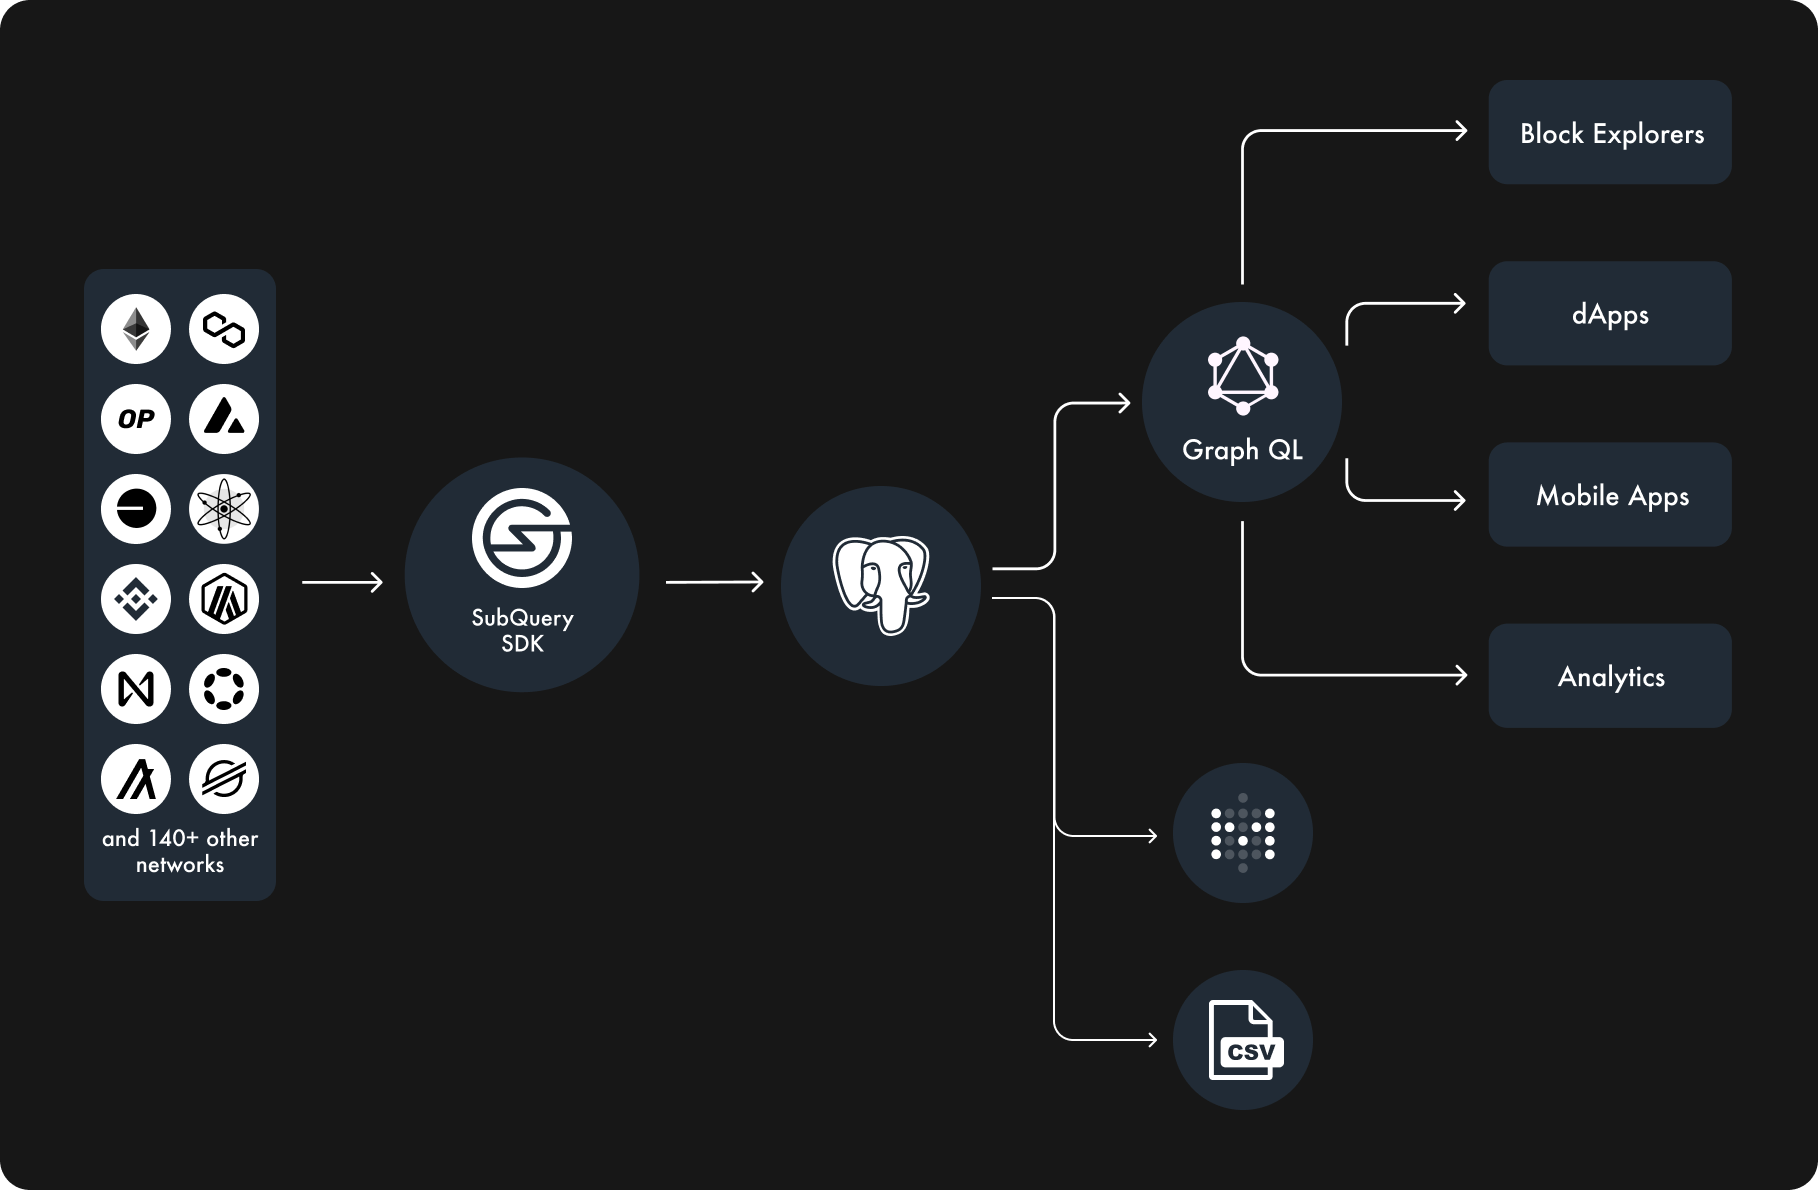
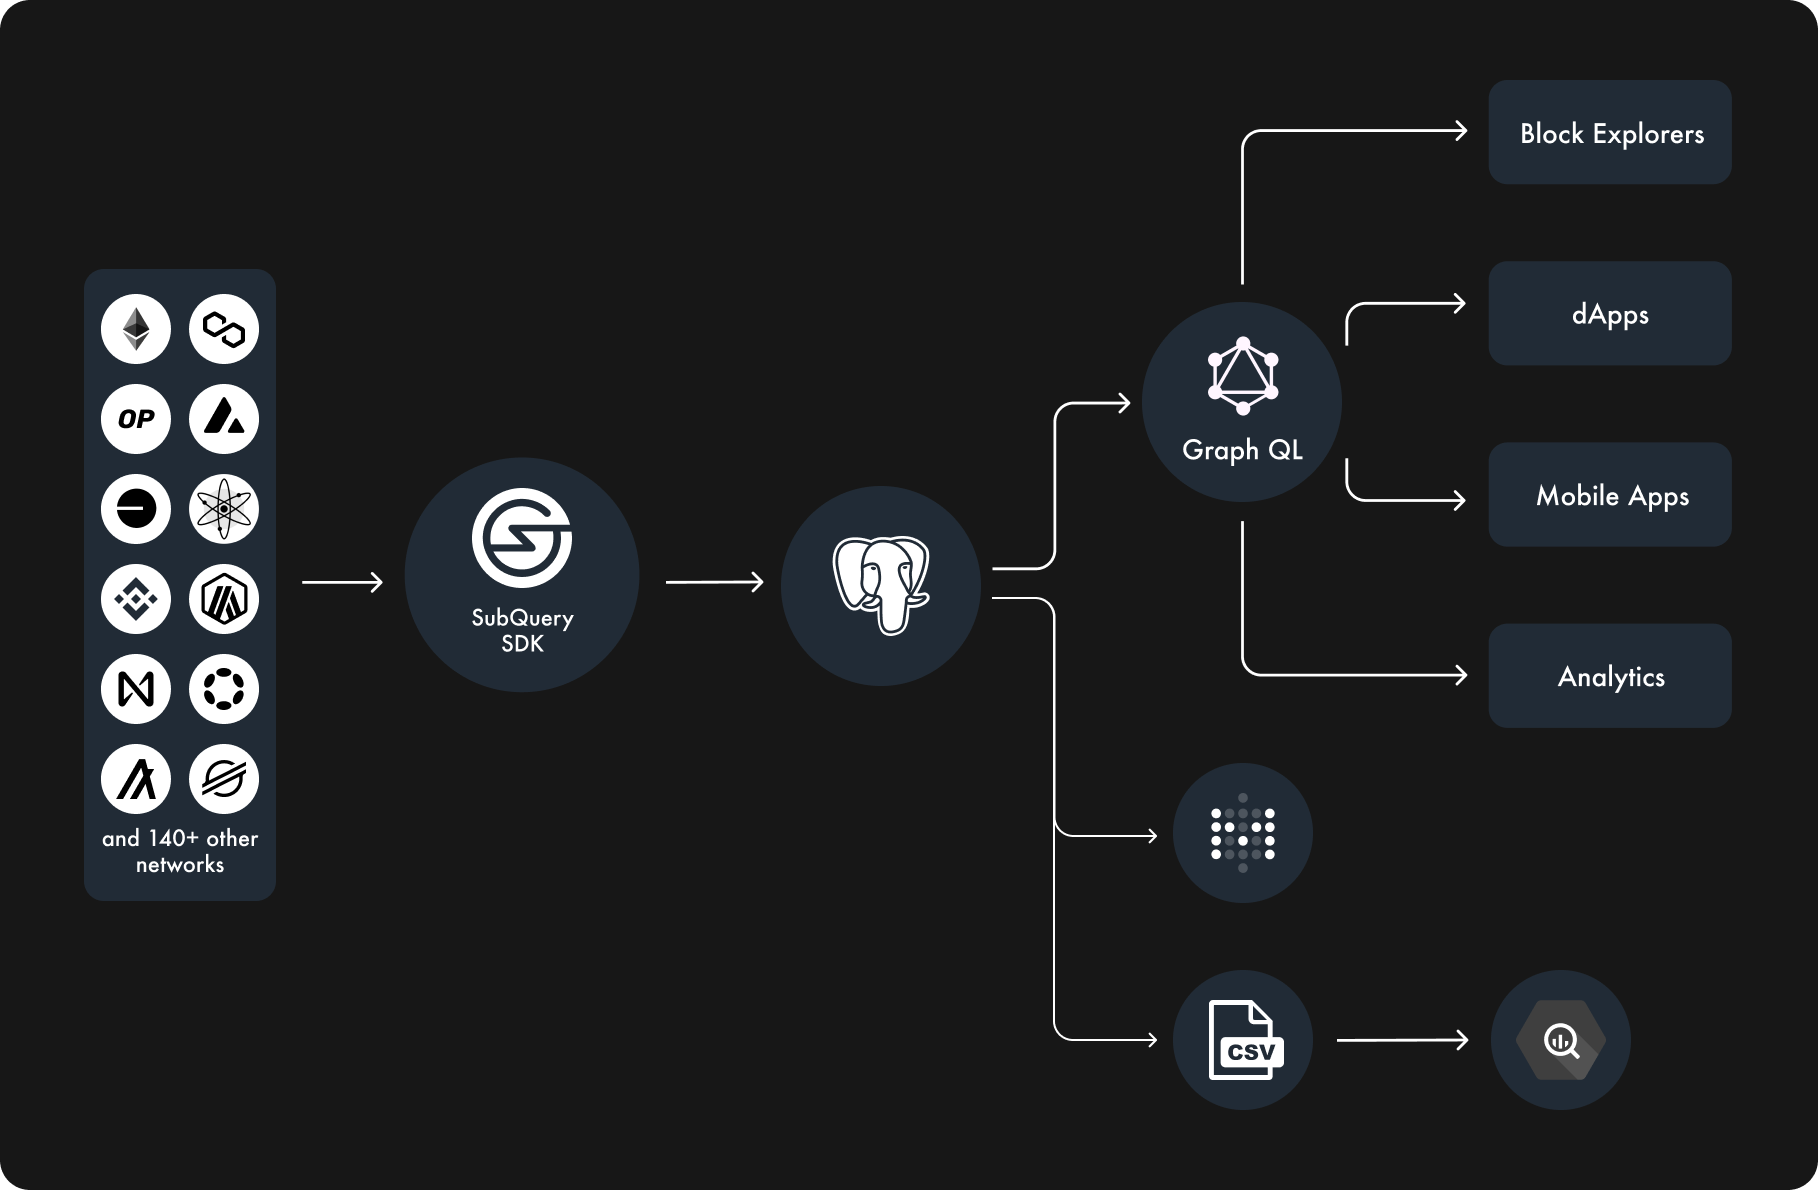
BigQuery as data destination (#500)
* BigQuery as data destination

* BigQuery Docs

---------

Changed region(s): [[0.7393, 0.8084, 0.8933, 0.9328]]

diff --git a/docs/.vuepress/sidebar.ts b/docs/.vuepress/sidebar.ts
@@ -471,7 +471,10 @@ export const getSidebar = (locale: string) =>
             },
             {
               text: "Other Tools",
-              children: [`${locale}/run_publish/query/other_tools/metabase.md`],
+              children: [
+                `${locale}/run_publish/query/other_tools/metabase.md`,
+                `${locale}/run_publish/query/other_tools/bigquery.md`,
+              ],
             },
           ],
         },

diff --git a/docs/run_publish/query/other_tools/bigquery.md b/docs/run_publish/query/other_tools/bigquery.md
@@ -1,0 +1,85 @@
+# Querying Data with BigQuery
+
+Google BigQuery is a fully managed, serverless data warehouse provided by Google Cloud. It allows you to run super-fast, SQL-like queries against large datasets. BigQuery is particularly well-suited for analyzing large volumes of data, including blockchain data, due to its scalability, speed, and ease of use. You might use BigQuery to analyse indexed SubQuery data due to:
+
+1. Scalability: BigQuery is designed to handle massive datasets, making it suitable for analyzing the vast amounts of data generated by blockchain networks.
+2. Speed: BigQuery can process queries on large datasets quickly, allowing you to get insights from your blockchain data in near real-time.
+3. SQL-like Queries: BigQuery supports standard SQL queries, making it easy for analysts and developers familiar with SQL to analyze blockchain data without having to learn a new query language.
+4. Serverless: With BigQuery, you don't need to manage any infrastructure. Google handles the infrastructure, so you can focus on analyzing your data.
+5. Integration: BigQuery integrates seamlessly with other Google Cloud services, such as Google Cloud Storage and Google Data Studio, making it easy to ingest, store, and visualize blockchain data.
+
+SubQuery can easily be integrated with BigQuery in only a few steps, this means that you can export indexed blockchain data directly from SubQuery to BigQuery.
+
+## Integrating SubQuery with BigQuery
+
+At a high level, the integration of SubQuery with BigQuery works over 3 steps (each that can be automated):
+
+1. Index data using SubQuery Indexing SDK
+2. Export data using SubQuery's CSV export
+3. Automate the loading of your CSV exports into BigQuery
+
+### Export data using SubQuery's CSV export
+
+Ensure that the indexed data is set to save in CSV files by enabling the [relevant CSV flag](../../references.md#csv-out-dir). Upon successful configuration, CSV files will be automatically created and populated as the indexing process runs.
+
+We suggest running your project in GCP for ease of automated integration, although you can run your SubQuery project anywhere. This means you can export your CSV's to Google Cloud Storage for automated integration.
+
+To save the data from your Docker container to Google Cloud Storage (GCS) instead of the local disk, you can use the `gsutil` command-line tool within your Docker container. Here's a general approach:
+
+Install `gsutil` in your Docker container. You can use the following commands in your Dockerfile to install `gsutil`:
+
+```Dockerfile
+RUN apt-get update && apt-get install -y \
+    curl \
+    gnupg \
+    && curl https://sdk.cloud.google.com | bash
+```
+
+This will install the Google Cloud SDK, which includes `gsutil`.
+
+Authenticate `gsutil`: You need to authenticate `gsutil` with your Google Cloud account. You can do this by running the following commands and following the instructions to authenticate:
+
+```sh
+gcloud auth login
+```
+
+Use `gsutil` to copy your CSV file to GCS. Once authenticated, you can use `gsutil cp` command to copy your CSV file to GCS. For example, if your CSV file is `/path/to/your/local/file.csv` and you want to upload it to a bucket named `your-bucket`:
+
+```sh
+gsutil cp /path/to/your/local/file.csv gs://your-bucket/
+```
+
+Replace `your-bucket` with your actual bucket name.
+
+Make sure to handle any permissions and access issues based on your GCP setup.
+
+### Adding CSV Data to BigQuery
+
+Once a sufficient amount of data is indexed for analysis, it's time to load it into BigQuery. Begin by creating an account on [Google Cloud](https://cloud.google.com) if you haven't already. Follow the steps outlined in [Enable the BigQuery sandbox](https://cloud.google.com/bigquery/docs/sandbox) to set up your account.
+
+Once your account is created, you can proceed to batch load the data. Depending on your deployment setup, the commands for loading data to BigQuery may vary slightly. Refer to specific guides for more details:
+
+- [Loading data from local files](https://cloud.google.com/bigquery/docs/batch-loading-data#loading_data_from_local_files)
+- [Loading CSV data from Cloud Storage](https://cloud.google.com/bigquery/docs/loading-data-cloud-storage-csv)
+
+Alternatively, you can use the `bq` command-line tool to load the CSV file into BigQuery. Here's an example command:
+
+`bq load --autodetect --source_format=CSV your_dataset.your_table gs://your-bucket/your-file.csv`
+
+Replace `your_dataset` with your dataset name, `your_table` with your table name, and `gs://your-bucket/your-file.csv` with the path to your CSV file in GCS.
+
+Make sure to have the necessary permissions to create tables in BigQuery and read from GCS.
+
+## Query your data in BigQuery
+
+After loading the data, you can proceed to query it. The provided screenshot from the Google Console showcases the successful execution of a `SELECT *` query on one of the loaded CSV files:
+
+![](/assets/img/run_publish/bigquery/consoleBigquery.png)
+
+By uploading your data to BigQuery, you not only gain access to a platform designed for limitless scalability and seamless integration with Google Cloud services but also benefit from a serverless architecture. This allows you to focus on analytics rather than infrastructure management, marking a strategic move towards maximizing the potential of your data.
+
+## Synchronise Updates Automatically
+
+The act of loading a CSV file from Google Cloud Storage or a Local Disk into Google BigQuery does not establish automatic synchronisation or updates. Should you or the SubQuery Indexer make modifications to the CSV file in GCS, it becomes necessary to manually reload the updated file into BigQuery following the same procedural steps.
+
+To streamline and automate this process, consider implementing a recurring job through Google Cloud services or configuring a cron job using the recommended commands. Alternatively, you can incorporate this automation directly within the mapping file code. For example, create a [block handler](../../../build/manifest/ethereum.md#mapping-handlers-and-filters) with a specific `modulo` to load your data in batches at predetermined intervals. These services will initiate a load job in BigQuery, ensuring your data stays synchronised effortlessly.

diff --git a/docs/run_publish/query/query.md b/docs/run_publish/query/query.md
@@ -19,5 +19,6 @@ We now have guides to expose SubQuery data to the following locations.
 - [Direct Postgres Access](../run.md#connect-to-database) - you can directly connect to the Postgres data from any other tool or service.
 - [Metabase](./other_tools/metabase.md) - an industry leading open-source and free data visualisation and business intelligence tool.
 - [CSV Export](../references.md#csv-out-dir) - export indexed datasets to CSV files easily.
+- [BigQuery](./other_tools/bigquery.md) - a fully managed, serverless data warehouse provided by Google Cloud, well-suited for analyzing large volumes of data.
 
 ![Integration Ecosystem](/assets/img/run_publish/integration_ecosystem.png)
